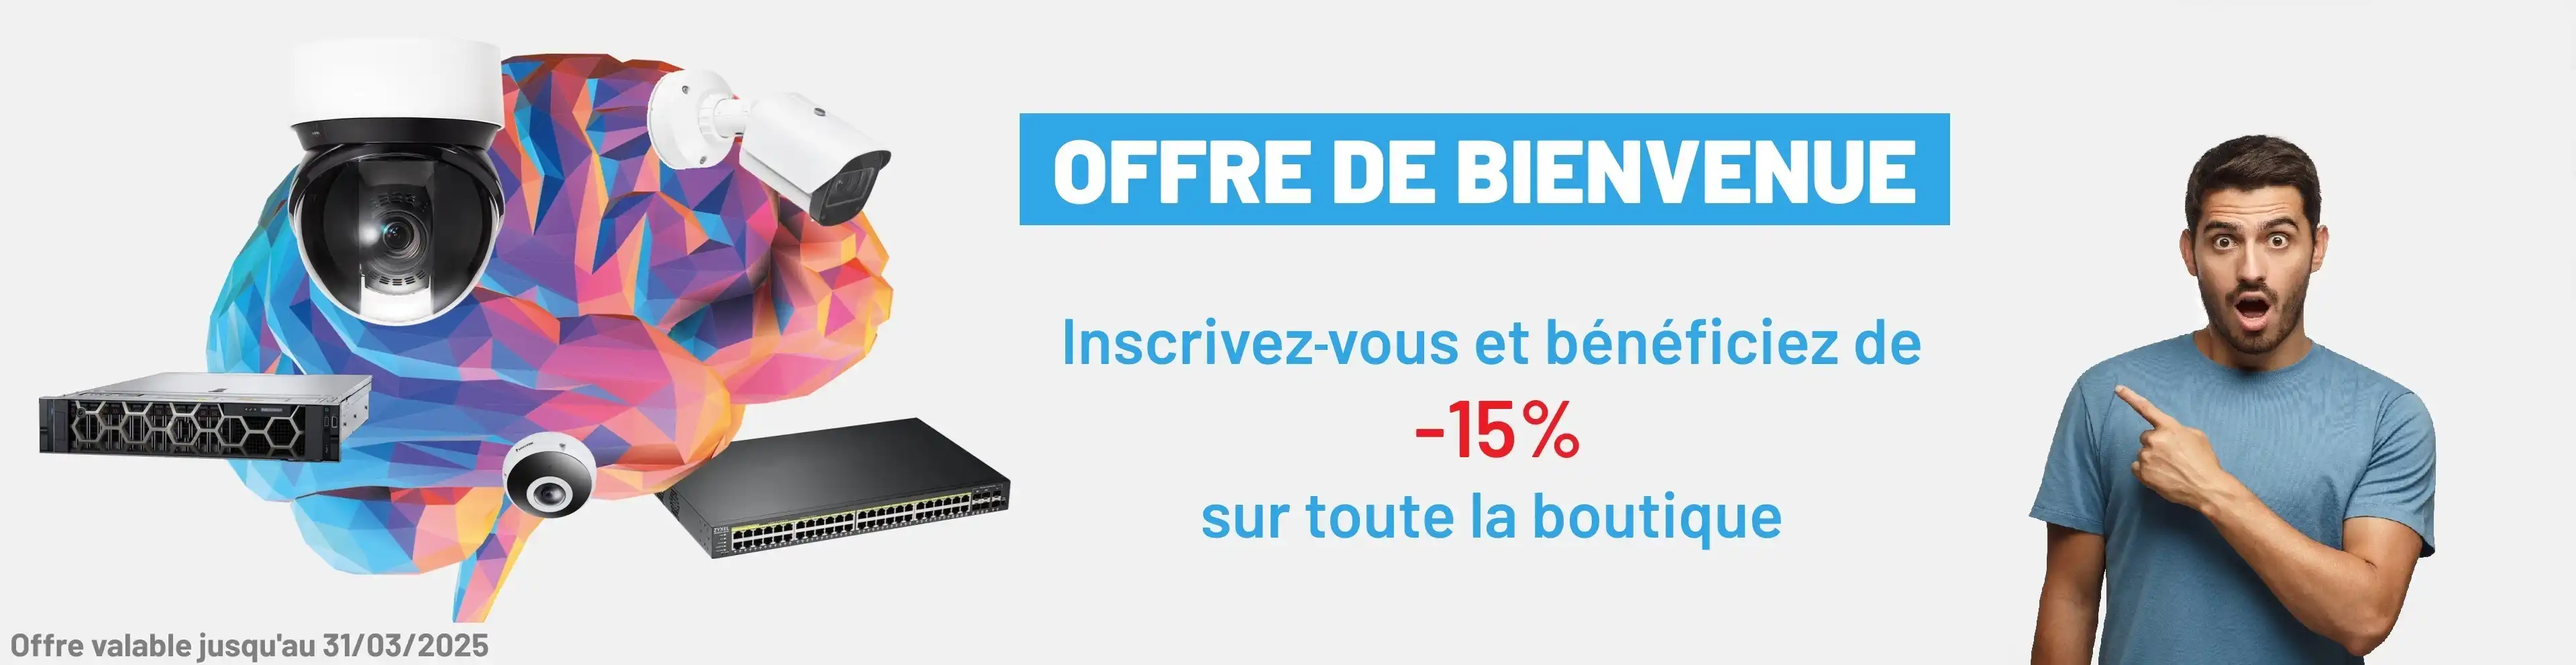
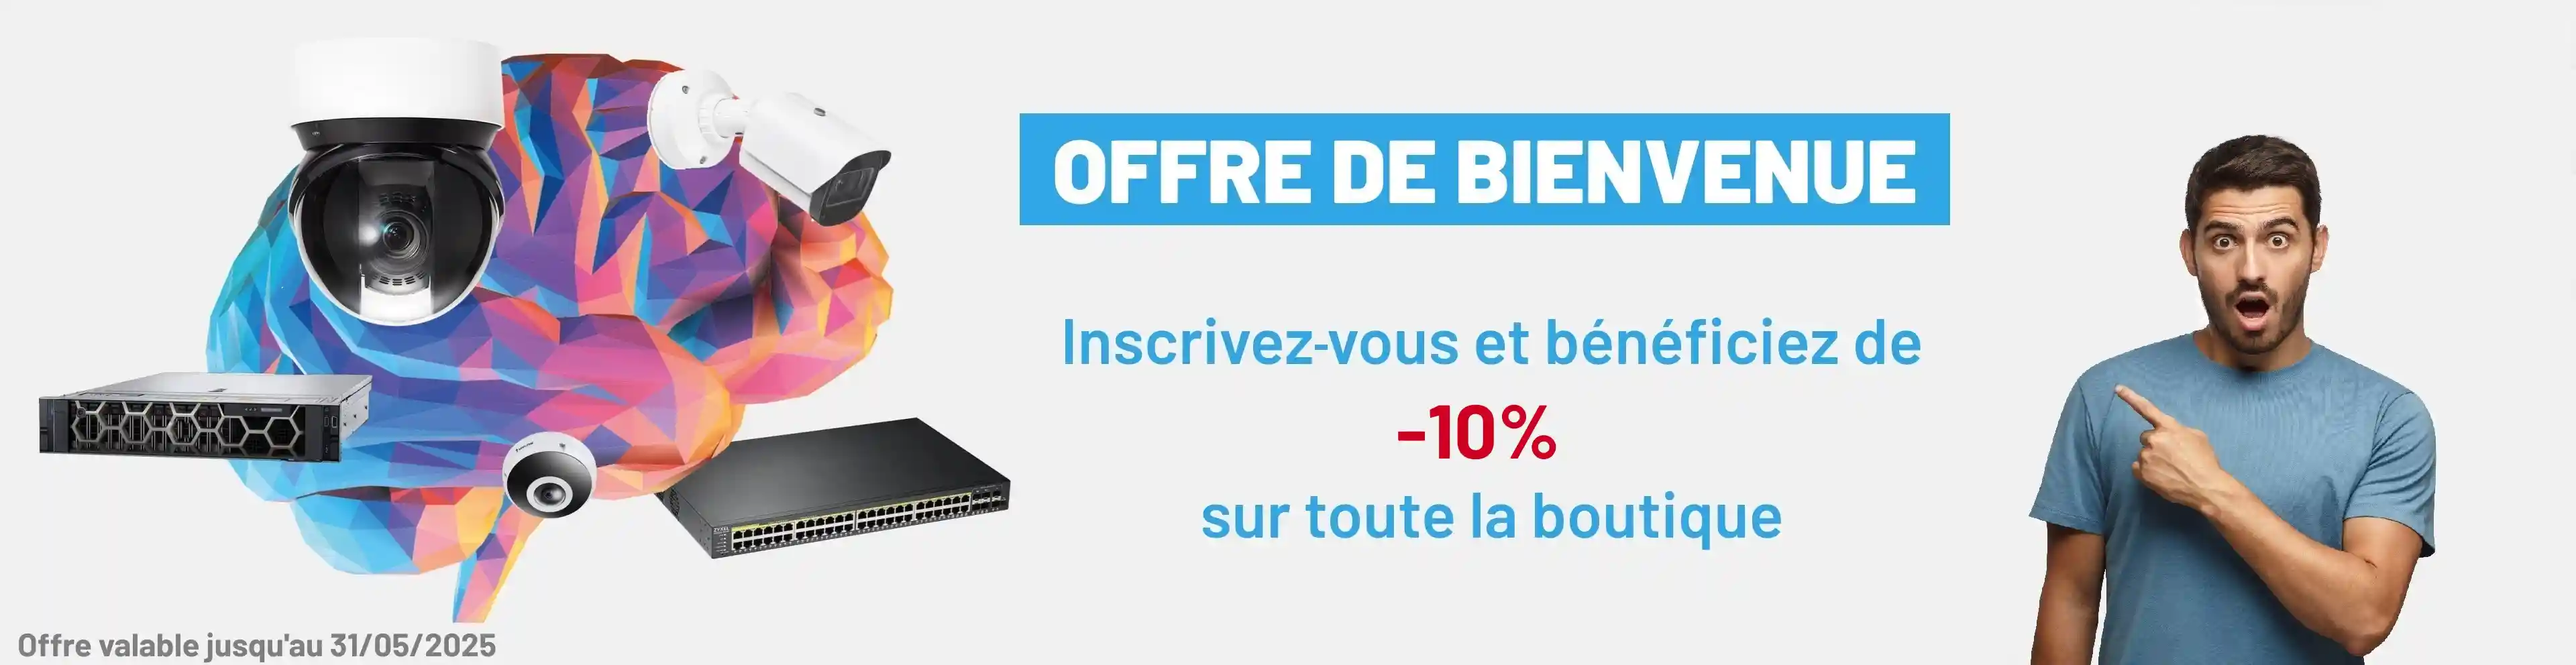
update discount in popup translations to -10% and adjust popup display limit to once per hour

Changed region(s): [[0.0, 0.9375, 0.1875, 1.0], [0.5312, 0.5938, 0.625, 0.6875]]

diff --git a/src/Components/RegisterPopup/RegisterPopup.jsx b/src/Components/RegisterPopup/RegisterPopup.jsx
@@ -11,7 +11,7 @@ export default function RegisterPopup() {
   useEffect(() => {
     if (user) return; // Si l'utilisateur est déjà connecté, ne pas afficher le pop-up
 
-    const maxDisplaysPerHour = 0;
+    const maxDisplaysPerHour = 1;
     const displayCount =
       parseInt(localStorage.getItem("popupDisplayCount")) || 0;
     const lastDisplayTime =
